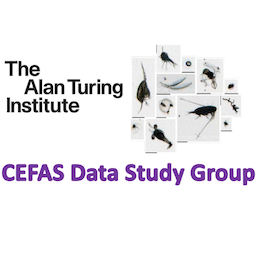
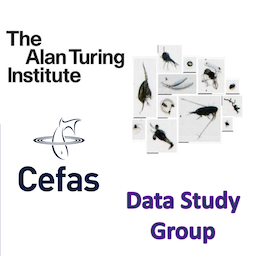
Project pages tidying (#507)
* update project thumbnails

* aadd cefas logo

* remove examples tab

* replace examples with projects on homepage

* add description to project thumbnails

* make project grid items same size

* rearrange and space

* add full stop if not in desc

* some comments

* Correct a typo

---------

diff --git a/frontend/src/App.js b/frontend/src/App.js
@@ -682,6 +682,24 @@ function makeThumbnail({getThumbnail, getLink, doPopover, asCard}) {
                     {thumbnail}
                 </OverlayTrigger>
             )
+        // Where no popover, thumnail includes description as text below
+        } else {
+            // Add a full stop if the description doesn't have one
+            if (data.description.slice(-1) != '.'){
+              var fstop = '.';
+            } else {
+              var fstop = '';
+            }
+            thumbnail = (
+              <div>
+                {thumbnail}
+                <div className="gridtext">
+                <p></p>
+                {data.description}
+                {fstop}
+                </div>
+              </div>
+            )
         }
 
         // Add card formatting
@@ -751,7 +769,7 @@ function ProjectGrid() {
         makeThumbnail({
             getThumbnail: (project) => project_thumbnails[`./${project.name}.jpg`],
             getLink: (project) => "/project/" + encodeURIComponent(project.name),
-            doPopover: true,
+            doPopover: false,
             asCard: true
         })
     );
@@ -962,6 +980,9 @@ function Home() {
     const datasources_sample = sample_without_replacement(
         datasources.entries, 3
     );
+    const projects_sample = sample_without_replacement(
+        projects.entries, 3
+    );
 
     return (
         <>
@@ -1022,32 +1043,32 @@ function Home() {
                 </div>
             </div>
 
-            <h4>Examples</h4>
-            <div className="w-75 mx-auto m-3 mb-5">
-                <p className="small">Jupyter Notebook-based examples of using the Scivision Python library and showcasing models and datasets from the catalog.</p>
+            <div className="mb-5">
+                <h4>Projects</h4>
 
+                <div className="w-75 mx-auto m-3">
+                    <p className="small">Research projects that have contributed scientific image data and computer vision models to the Scivision catalog.</p>
                     <div className="card-deck">
-                        <div className="card">
-                            <a href="https://github.com/scivision-gallery/plankton-classification">
-                                <img className="img-card-top" width="100%" src={nbScreenshot1} />
-                                <div className="card-footer small text-center">Plankton classification</div>
-                            </a>
-                        </div>
-
-                        <div className="card">
-                            <a href="https://github.com/scivision-gallery/coastalveg-edge-detection">
-                                <img className="img-card-top" width="100%" src={nbScreenshot2} />
-                                <div className="card-footer small text-center">Coastal vegetation edge detection</div>
-                            </a>
-                        </div>
-
+                        {
+                            projects_sample.map((proj) => (
+                                <div className="card">
+                                    {
+                                        makeThumbnail({
+                                            getThumbnail: (project) => project_thumbnails[`./${project.name}.jpg`],
+                                            getLink: (project) => "/project/" + encodeURIComponent(project.name),
+                                            doPopover: true,
+                                        })(proj)
+                                    }
+                                </div>
+                            ))
+                        }
                     </div>
                     <div className="bg-highlight">
                         <p className="p-1 pl-2 small">
-                            Visit the <a href="https://github.com/scivision-gallery"><strong>Scivision Example Gallery</strong></a> on GitHub for more
+                            Explore the full <Link to="project-grid"><strong>project catalog</strong></Link>
                         </p>
                     </div>
-
+                </div>
             </div>
 
         </>
@@ -1124,11 +1145,6 @@ function App() {
                                   }>
                             Data
                         </Nav.Link>
-
-                        <Nav.Link to="examples" as={NavLink}>
-                            Examples
-                        </Nav.Link>
-
                         <Nav.Link to="project-grid" as={NavLink}
                                   active={
                                       location_root == "project-table"
@@ -1376,11 +1392,6 @@ function App() {
                                        </div>
                                    </>
                                } />
-
-                        <Route path="/examples" element={
-
-                                   <p> More to come here soon. For now, see the <a href="https://github.com/scivision-gallery">Scivision Example Gallery</a> on GitHub. </p>
-                               }/>
 
                         <Route path="/community" element={
                                    <>

diff --git a/frontend/src/App.css b/frontend/src/App.css
@@ -15,6 +15,10 @@ img.halfsize_thumbnails{
     width: 128px;
 }
 
+div.gridtext {
+    height: 15ex;
+}
+
 .login-bar {
     font-size: x-small;
     background-color: Lavender;
